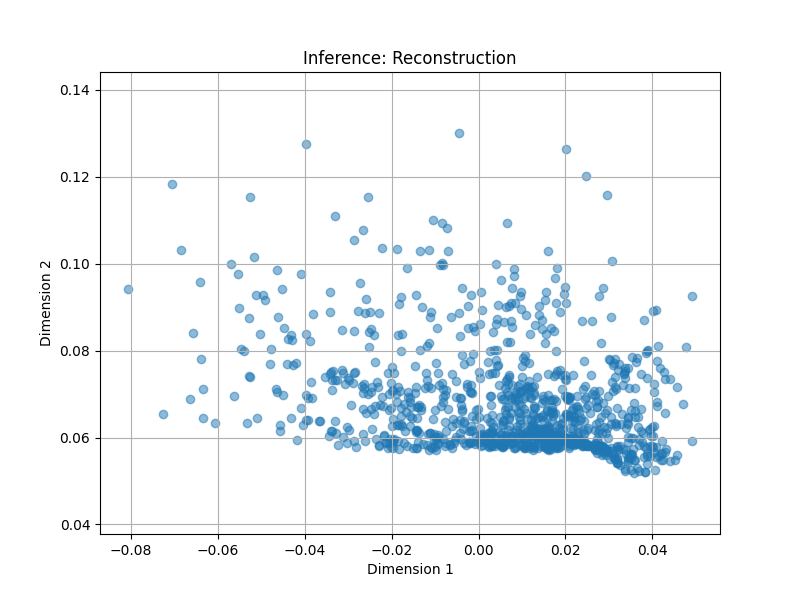
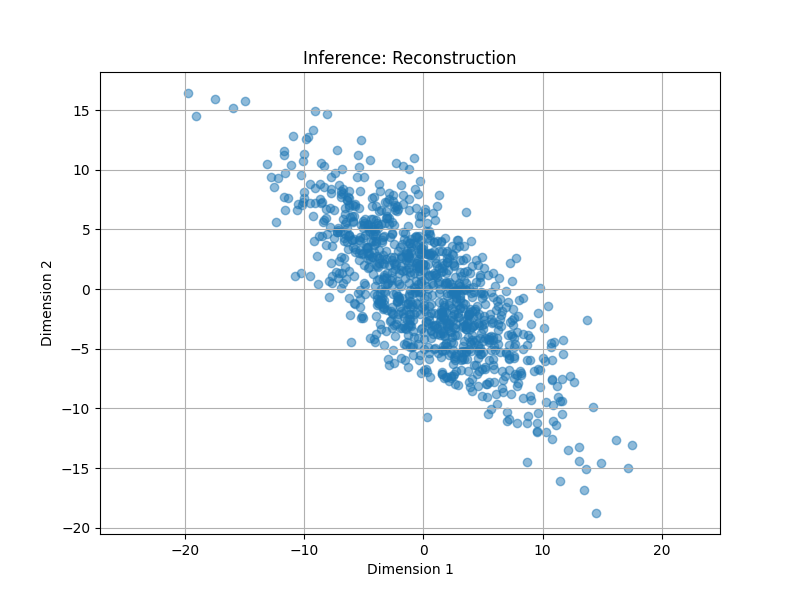
minor changes

diff --git a/src/models/bitnet_vae.py b/src/models/bitnet_vae.py
@@ -14,17 +14,19 @@ class VAE(nn.Module):
         self.latent_dim = latent_dim
 
         # Encoder
-        self.fc1 = BitLinear158(input_dim, 200)
-        self.fc2 = BitLinear158(200, 200)
-        self.fc3 = BitLinear158(200, 200)
-        self.fc31 = BitLinear158(200, latent_dim)  # For mu
-        self.fc32 = BitLinear158(200, latent_dim)  # For log variance
+        self.encoder = nn.Sequential(
+            BitLinear158(input_dim, 200),
+            BitLinear158(200, 200),
+            BitLinear158(200, 200),
+        )
+
+        self.fc1 = BitLinear158(200, latent_dim)  # For mu
+        self.fc2 = BitLinear158(200, latent_dim)  # For log variance
 
         # Decoder
         self.decoder = nn.Sequential(
             BitLinear158(latent_dim, 200),
             nn.LeakyReLU(0.2),
-            # RMSNorm(100),
             BitLinear158(200, 200),
             nn.LeakyReLU(0.2),
             BitLinear158(200, 200),
@@ -38,10 +40,8 @@ class VAE(nn.Module):
         self.mode = "training"
 
     def encode(self, x):
-        h1 = F.relu(self.fc1(x))
-        h2 = F.relu(self.fc2(h1))
-        h3 = F.relu(self.fc3(h2))
-        return self.fc31(h3), self.fc32(h3)
+        h = self.encoder(x)
+        return self.fc1(h), self.fc2(h)
 
     def reparameterize(self, mu, logvar):
         std = torch.exp(0.5 * logvar).to(self.device)

diff --git a/src/models/baseline_vae.py b/src/models/baseline_vae.py
@@ -12,11 +12,14 @@ class VAE(nn.Module):
         self.latent_dim = latent_dim
 
         # Encoder
-        self.fc1 = nn.Linear(input_dim, 200)
-        self.fc2 = nn.Linear(200, 200)
-        self.fc3 = nn.Linear(200, 200)
-        self.fc31 = nn.Linear(200, latent_dim)  # For mu
-        self.fc32 = nn.Linear(200, latent_dim)  # For log variance
+        self.encoder = nn.Sequential(
+            nn.Linear(input_dim, 200),
+            nn.Linear(200, 200),
+            nn.Linear(200, 200),
+        )
+
+        self.fc1 = nn.Linear(200, latent_dim)  # For mu
+        self.fc2 = nn.Linear(200, latent_dim)  # For log variance
 
         # Decoder
         self.decoder = nn.Sequential(
@@ -36,10 +39,8 @@ class VAE(nn.Module):
         self.mode = "training"
 
     def encode(self, x):
-        h1 = F.relu(self.fc1(x))
-        h2 = F.relu(self.fc2(h1))
-        h3 = F.relu(self.fc3(h2))
-        return self.fc31(h3), self.fc32(h3)
+        h = self.encoder(x)
+        return self.fc1(h), self.fc2(h)
 
     def reparameterize(self, mu, logvar):
         std = torch.exp(0.5 * logvar).to(self.device)
